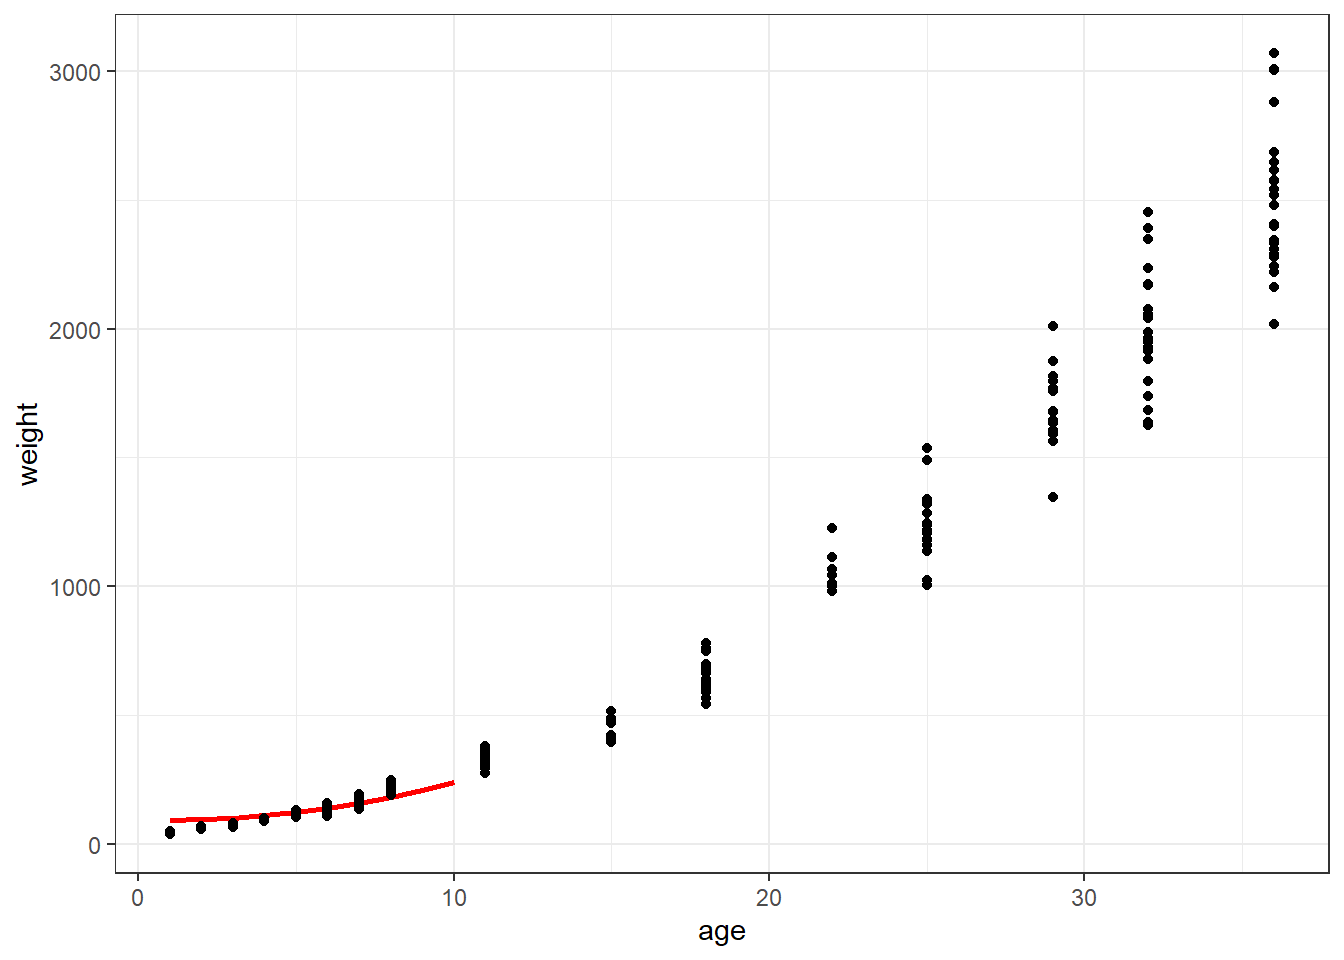
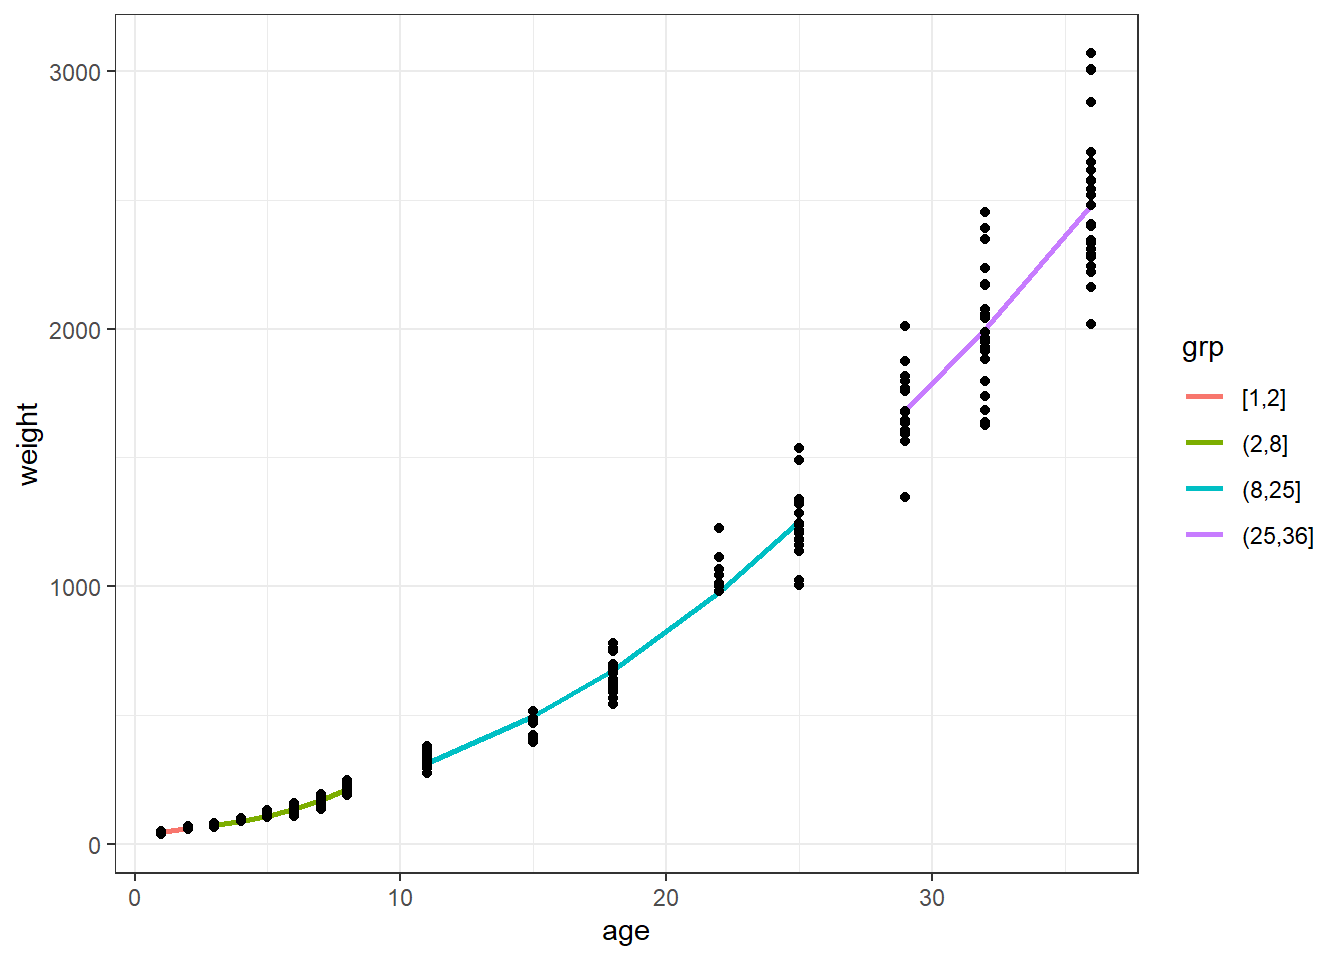
added figures

diff --git a/docs/stat-modeling-non-linear.html b/docs/stat-modeling-non-linear.html
@@ -470,7 +470,7 @@ code span.wa { color: #60a0b0; font-weight: bold; font-style: italic; } /* Warni
 </header><div class="cell">
 
 </div>
-<p><em>Version vom Oktober 18, 2022 um 11:15:43</em></p>
+<p><em>Version vom Oktober 18, 2022 um 14:51:25</em></p>
 <div class="quarto-figure quarto-figure-center">
 <figure class="figure"><p><img src="images/caution.png" class="img-fluid figure-img" style="width:50.0%"></p>
 </figure>
@@ -505,7 +505,6 @@ code span.wa { color: #60a0b0; font-weight: bold; font-style: italic; } /* Warni
 </div>
 <div class="cell">
 <div class="sourceCode" id="cb5"><pre class="downlit sourceCode r code-with-copy"><code class="sourceCode R"><span class="fu">ggplot</span><span class="op">(</span><span class="va">chicken_tbl</span>, <span class="fu">aes</span><span class="op">(</span><span class="va">age</span>, <span class="va">weight</span><span class="op">)</span><span class="op">)</span> <span class="op">+</span>
-  <span class="co">#stat_smooth() +</span>
   <span class="fu">geom_line</span><span class="op">(</span><span class="fu">aes</span><span class="op">(</span>y <span class="op">=</span> <span class="fu"><a href="https://rdrr.io/r/stats/predict.html">predict</a></span><span class="op">(</span><span class="va">fit</span><span class="op">)</span><span class="op">)</span>, size <span class="op">=</span> <span class="fl">1</span>, color <span class="op">=</span> <span class="st">"red"</span><span class="op">)</span> <span class="op">+</span>
   <span class="fu">geom_point</span><span class="op">(</span><span class="op">)</span> <span class="op">+</span>
   <span class="fu">theme_bw</span><span class="op">(</span><span class="op">)</span></code><button title="In die Zwischenablage kopieren" class="code-copy-button"><i class="bi"></i></button></pre></div>
@@ -513,18 +512,60 @@ code span.wa { color: #60a0b0; font-weight: bold; font-style: italic; } /* Warni
 <p><img src="stat-modeling-non-linear_files/figure-html/unnamed-chunk-6-1.png" class="img-fluid" width="672"></p>
 </div>
 </div>
+<p>https://cran.r-project.org/web/packages/broom/vignettes/broom_and_dplyr.html</p>
 <div class="cell">
-<div class="sourceCode" id="cb6"><pre class="downlit sourceCode r code-with-copy"><code class="sourceCode R"><span class="va">pred_tbl</span> <span class="op">&lt;-</span> <span class="fu">tibble</span><span class="op">(</span>age <span class="op">=</span> <span class="fl">1</span><span class="op">:</span><span class="fl">10</span>,
-                   weight <span class="op">=</span> <span class="fu"><a href="https://rdrr.io/r/stats/predict.html">predict</a></span><span class="op">(</span><span class="va">fit</span>, newdata <span class="op">=</span> <span class="fu">tibble</span><span class="op">(</span><span class="va">age</span><span class="op">)</span><span class="op">)</span><span class="op">)</span>
-
+<div class="sourceCode" id="cb6"><pre class="downlit sourceCode r code-with-copy"><code class="sourceCode R"><span class="va">nls_tbl</span> <span class="op">&lt;-</span> <span class="va">chicken_tbl</span> <span class="op">%&gt;%</span> 
+  <span class="fu">mutate</span><span class="op">(</span>grp <span class="op">=</span> <span class="fu">as_factor</span><span class="op">(</span><span class="fu">cut_number</span><span class="op">(</span><span class="va">age</span>, <span class="fl">4</span><span class="op">)</span><span class="op">)</span><span class="op">)</span> <span class="op">%&gt;%</span> 
+  <span class="fu">group_by</span><span class="op">(</span><span class="va">grp</span><span class="op">)</span> <span class="op">%&gt;%</span> 
+  <span class="fu">nest</span><span class="op">(</span><span class="op">)</span> <span class="op">%&gt;%</span> 
+  <span class="fu">mutate</span><span class="op">(</span>nls_fit <span class="op">=</span> <span class="fu">map</span><span class="op">(</span><span class="va">data</span>, <span class="op">~</span><span class="fu"><a href="https://rdrr.io/r/stats/nls.html">nls</a></span><span class="op">(</span><span class="va">weight</span> <span class="op">~</span> <span class="va">b0</span> <span class="op">+</span> <span class="fu"><a href="https://rdrr.io/r/base/AsIs.html">I</a></span><span class="op">(</span><span class="va">age</span><span class="op">^</span><span class="va">b1</span><span class="op">)</span>, data <span class="op">=</span> <span class="va">.x</span>, 
+                                  start <span class="op">=</span> <span class="fu"><a href="https://rdrr.io/r/base/list.html">list</a></span><span class="op">(</span>b0 <span class="op">=</span> <span class="fl">1</span>, b1 <span class="op">=</span> <span class="fl">2</span><span class="op">)</span>, trace <span class="op">=</span> <span class="cn">FALSE</span><span class="op">)</span><span class="op">)</span>,
+         pred <span class="op">=</span> <span class="fu">map</span><span class="op">(</span><span class="va">nls_fit</span>, <span class="op">~</span><span class="fu"><a href="https://rdrr.io/r/stats/predict.html">predict</a></span><span class="op">(</span><span class="va">.x</span>, <span class="va">data</span><span class="op">)</span><span class="op">)</span><span class="op">)</span> <span class="op">%&gt;%</span> 
+  <span class="fu">unnest</span><span class="op">(</span><span class="fu"><a href="https://rdrr.io/r/base/c.html">c</a></span><span class="op">(</span><span class="va">data</span>, <span class="va">pred</span><span class="op">)</span><span class="op">)</span>
 
 <span class="fu">ggplot</span><span class="op">(</span><span class="va">chicken_tbl</span>, <span class="fu">aes</span><span class="op">(</span><span class="va">age</span>, <span class="va">weight</span><span class="op">)</span><span class="op">)</span> <span class="op">+</span>
-  <span class="co">#stat_smooth() +</span>
-  <span class="fu">geom_line</span><span class="op">(</span>data <span class="op">=</span> <span class="va">pred_tbl</span>, <span class="fu">aes</span><span class="op">(</span><span class="va">age</span>, <span class="va">weight</span><span class="op">)</span>, size <span class="op">=</span> <span class="fl">1</span>, color <span class="op">=</span> <span class="st">"red"</span><span class="op">)</span> <span class="op">+</span>
+  <span class="fu">geom_line</span><span class="op">(</span>data <span class="op">=</span> <span class="va">nls_tbl</span>, <span class="fu">aes</span><span class="op">(</span><span class="va">age</span>, <span class="va">pred</span>, color <span class="op">=</span> <span class="va">grp</span><span class="op">)</span>, size <span class="op">=</span> <span class="fl">1</span><span class="op">)</span> <span class="op">+</span>
   <span class="fu">geom_point</span><span class="op">(</span><span class="op">)</span> <span class="op">+</span>
   <span class="fu">theme_bw</span><span class="op">(</span><span class="op">)</span></code><button title="In die Zwischenablage kopieren" class="code-copy-button"><i class="bi"></i></button></pre></div>
 <div class="cell-output-display">
 <p><img src="stat-modeling-non-linear_files/figure-html/unnamed-chunk-7-1.png" class="img-fluid" width="672"></p>
+</div>
+</div>
+<div class="cell">
+<div class="sourceCode" id="cb7"><pre class="downlit sourceCode r code-with-copy"><code class="sourceCode R"><span class="fu"><a href="https://rdrr.io/r/base/Random.html">set.seed</a></span><span class="op">(</span><span class="fl">20221018</span><span class="op">)</span>
+<span class="va">exp_tbl</span> <span class="op">&lt;-</span> <span class="fu">tibble</span><span class="op">(</span>rev <span class="op">=</span> <span class="fu"><a href="https://rdrr.io/r/base/c.html">c</a></span><span class="op">(</span><span class="fu"><a href="https://rdrr.io/r/stats/Normal.html">rnorm</a></span><span class="op">(</span><span class="fl">10</span>, <span class="fl">17906</span>, <span class="fl">17906</span><span class="op">/</span><span class="fl">4</span><span class="op">)</span>, 
+                          <span class="fu"><a href="https://rdrr.io/r/stats/Normal.html">rnorm</a></span><span class="op">(</span><span class="fl">10</span>,  <span class="fl">5303</span>,  <span class="fl">5303</span><span class="op">/</span><span class="fl">4</span><span class="op">)</span>,
+                          <span class="fu"><a href="https://rdrr.io/r/stats/Normal.html">rnorm</a></span><span class="op">(</span><span class="fl">10</span>,  <span class="fl">2700</span>,  <span class="fl">2700</span><span class="op">/</span><span class="fl">4</span><span class="op">)</span>,
+                          <span class="fu"><a href="https://rdrr.io/r/stats/Normal.html">rnorm</a></span><span class="op">(</span><span class="fl">10</span>,  <span class="fl">1696</span>,  <span class="fl">1696</span><span class="op">/</span><span class="fl">4</span><span class="op">)</span>, 
+                          <span class="fu"><a href="https://rdrr.io/r/stats/Normal.html">rnorm</a></span><span class="op">(</span><span class="fl">10</span>,   <span class="fl">947</span>,   <span class="fl">947</span><span class="op">/</span><span class="fl">4</span><span class="op">)</span>, 
+                          <span class="fu"><a href="https://rdrr.io/r/stats/Normal.html">rnorm</a></span><span class="op">(</span><span class="fl">10</span>,   <span class="fl">362</span>,   <span class="fl">362</span><span class="op">/</span><span class="fl">4</span><span class="op">)</span><span class="op">)</span>, 
+                  weeks <span class="op">=</span> <span class="fu"><a href="https://rdrr.io/r/base/rep.html">rep</a></span><span class="op">(</span><span class="fl">1</span><span class="op">:</span><span class="fl">6</span>, each <span class="op">=</span> <span class="fl">10</span><span class="op">)</span><span class="op">)</span> 
+
+<span class="fu"><a href="https://rdrr.io/r/stats/lm.html">lm</a></span><span class="op">(</span><span class="fu"><a href="https://rdrr.io/r/base/Log.html">log</a></span><span class="op">(</span><span class="va">rev</span><span class="op">)</span> <span class="op">~</span> <span class="fu"><a href="https://rdrr.io/r/base/Log.html">log</a></span><span class="op">(</span><span class="va">weeks</span><span class="op">)</span>, <span class="va">exp_tbl</span><span class="op">)</span></code><button title="In die Zwischenablage kopieren" class="code-copy-button"><i class="bi"></i></button></pre></div>
+<div class="cell-output cell-output-stdout">
+<pre><code>
+Call:
+lm(formula = log(rev) ~ log(weeks), data = exp_tbl)
+
+Coefficients:
+(Intercept)   log(weeks)  
+      9.961       -2.024  </code></pre>
+</div>
+</div>
+<div class="cell">
+<div class="sourceCode" id="cb9"><pre class="downlit sourceCode r code-with-copy"><code class="sourceCode R"><span class="va">fit</span> <span class="op">&lt;-</span> <span class="fu"><a href="https://rdrr.io/r/stats/nls.html">nls</a></span><span class="op">(</span><span class="va">rev</span> <span class="op">~</span> <span class="va">b0</span> <span class="op">*</span> <span class="fu"><a href="https://rdrr.io/r/base/AsIs.html">I</a></span><span class="op">(</span><span class="va">weeks</span><span class="op">^</span><span class="va">b1</span><span class="op">)</span>, data <span class="op">=</span> <span class="va">exp_tbl</span>, 
+           start <span class="op">=</span> <span class="fu"><a href="https://rdrr.io/r/base/list.html">list</a></span><span class="op">(</span>b0 <span class="op">=</span> <span class="fu"><a href="https://rdrr.io/r/base/Log.html">exp</a></span><span class="op">(</span><span class="fl">9.961</span><span class="op">)</span>, b1 <span class="op">=</span> <span class="op">-</span><span class="fl">2.024</span><span class="op">)</span>, trace <span class="op">=</span> <span class="cn">TRUE</span><span class="op">)</span></code><button title="In die Zwischenablage kopieren" class="code-copy-button"><i class="bi"></i></button></pre></div>
+<div class="cell-output cell-output-stdout">
+<pre><code>3.584045e+08 (7.22e-01): par = (21183.97 -2.024)
+2.362076e+08 (1.22e-02): par = (17789.77 -1.677267)
+2.361732e+08 (2.86e-04): par = (17812.64 -1.687688)
+2.361732e+08 (8.02e-06): par = (17812.11 -1.687442)</code></pre>
+</div>
+<div class="sourceCode" id="cb11"><pre class="downlit sourceCode r code-with-copy"><code class="sourceCode R"><span class="fu">ggplot</span><span class="op">(</span><span class="va">exp_tbl</span>, <span class="fu">aes</span><span class="op">(</span><span class="va">weeks</span>, <span class="va">rev</span><span class="op">)</span><span class="op">)</span> <span class="op">+</span>
+  <span class="fu">geom_point</span><span class="op">(</span><span class="op">)</span> <span class="op">+</span>
+  <span class="fu">geom_line</span><span class="op">(</span><span class="fu">aes</span><span class="op">(</span>y <span class="op">=</span> <span class="fu"><a href="https://rdrr.io/r/stats/predict.html">predict</a></span><span class="op">(</span><span class="va">fit</span><span class="op">)</span><span class="op">)</span><span class="op">)</span></code><button title="In die Zwischenablage kopieren" class="code-copy-button"><i class="bi"></i></button></pre></div>
+<div class="cell-output-display">
+<p><img src="stat-modeling-non-linear_files/figure-html/unnamed-chunk-9-1.png" class="img-fluid" width="672"></p>
 </div>
 </div>
 
